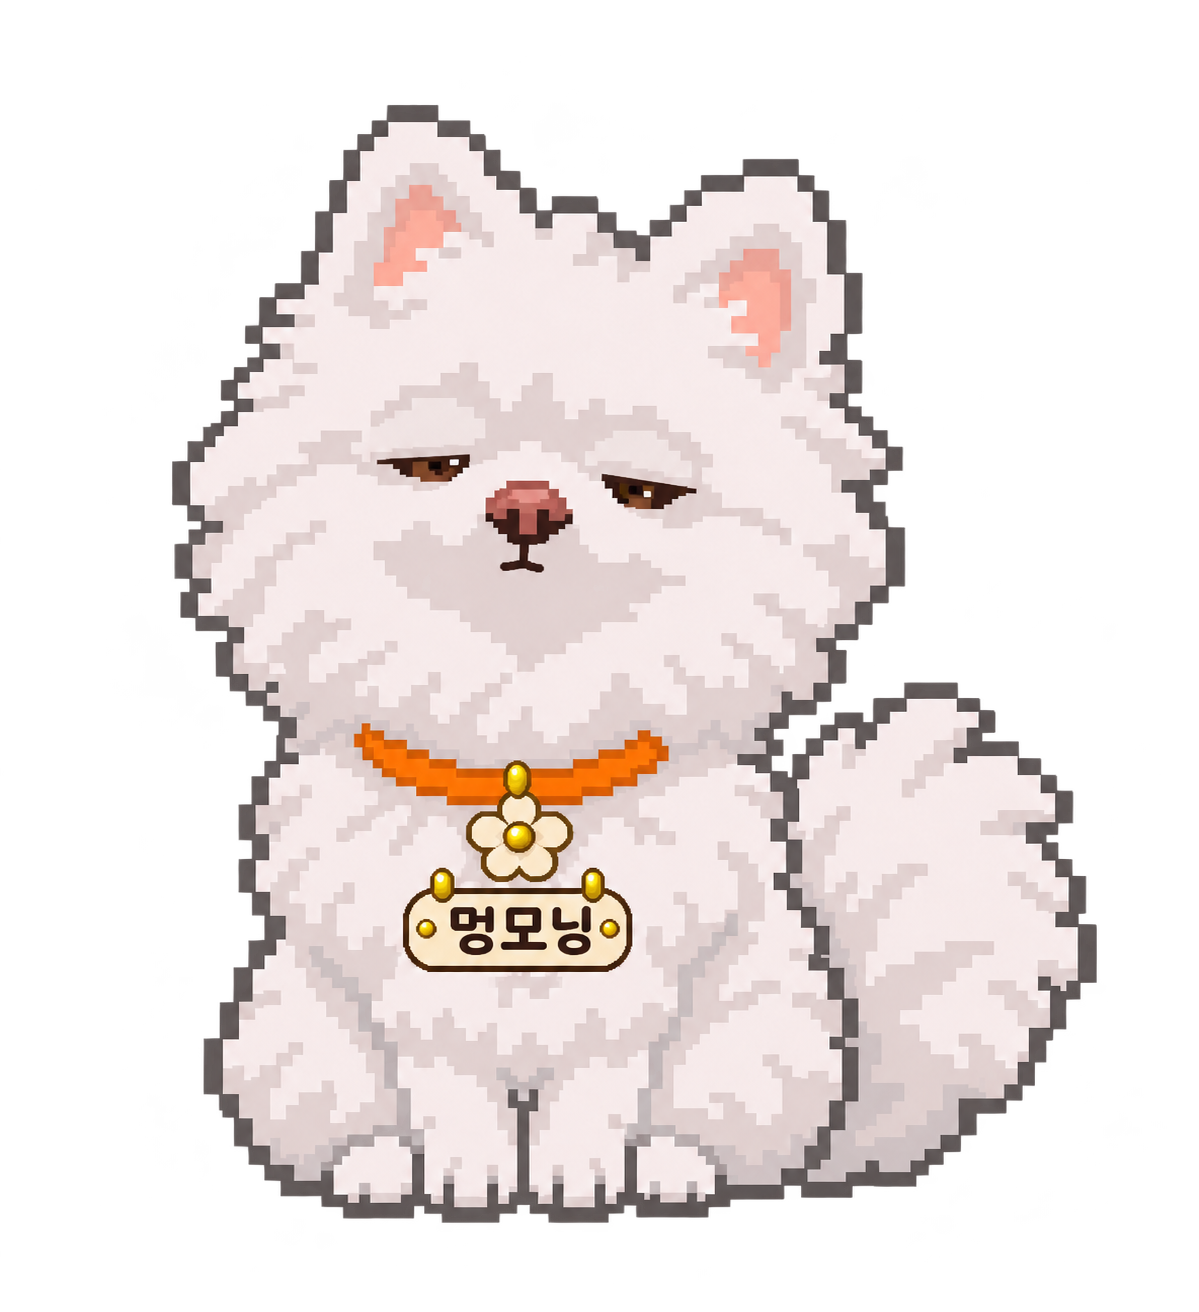
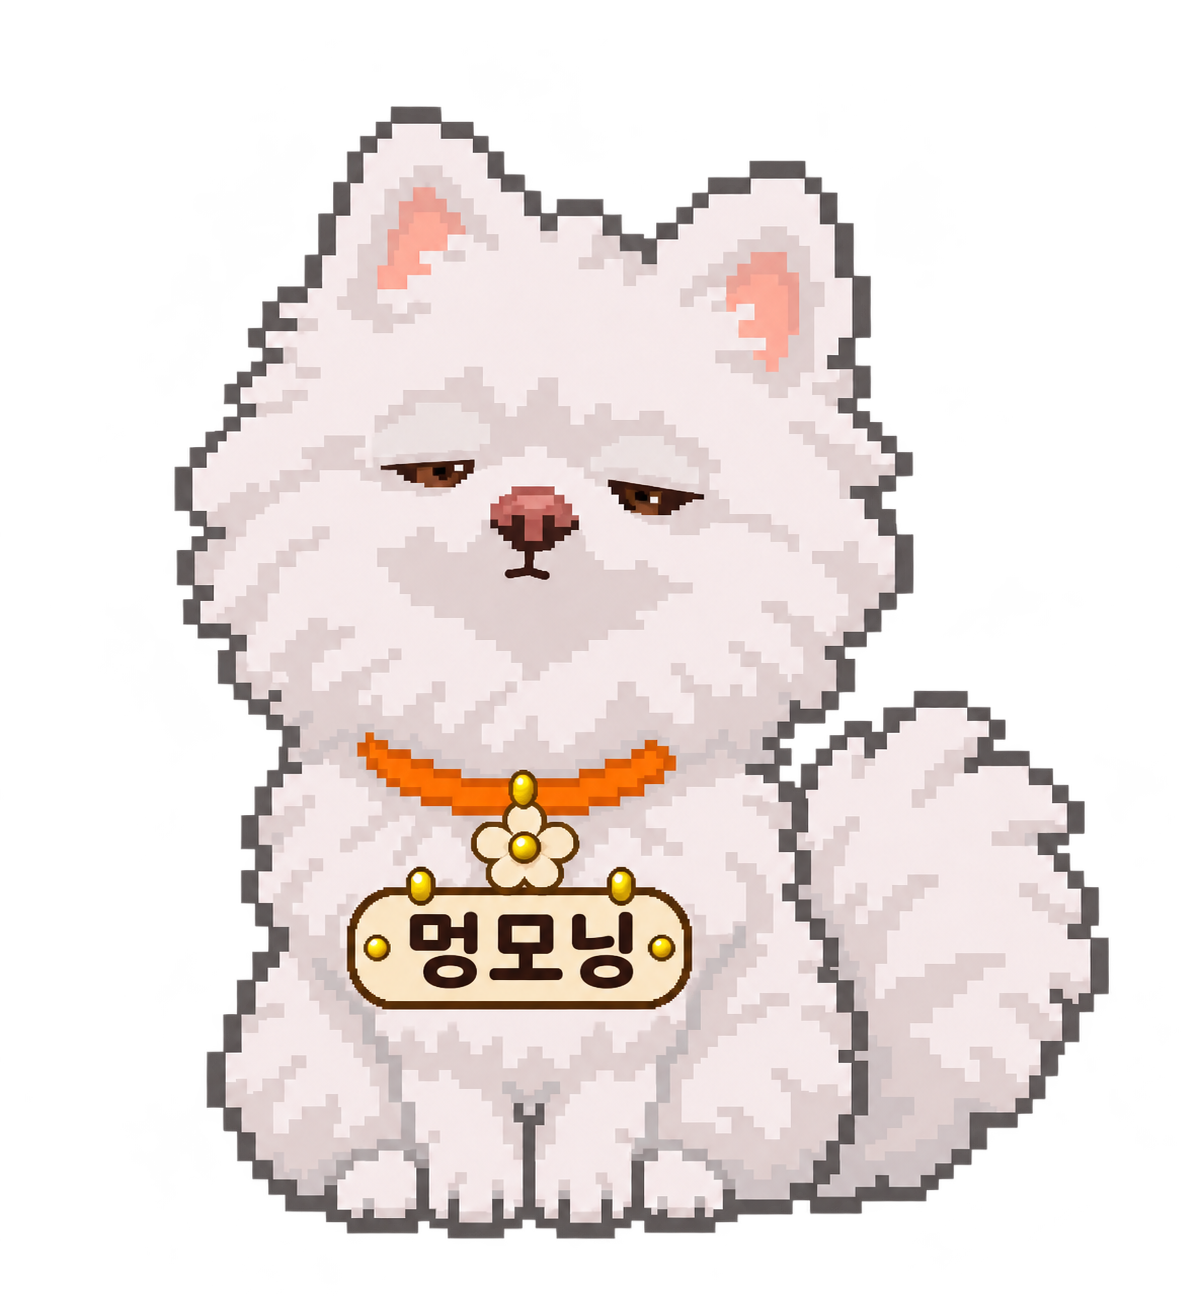
Release 2.2.1

diff --git a/updater.py b/updater.py
@@ -115,7 +115,7 @@ class UpdateService:
                     self.package=download_offer(self.base,self.offer,self.fetch)
                     self.install_requested=download or self.auto
                     self.status='적용 대기' if self.install_requested else '다운로드 완료'
-                else:self.status=self.offer['version']+' 사용 가능' if self.offer else '최신 버전'
+                else:self.status=f"새 버전 {self.offer['version']} 있음" if self.offer else '새 버전 없음'
             except Exception:
                 self.status='연결·검증 실패'
             finally:
@@ -165,7 +165,7 @@ def launch_worker(base,package,offer,wait_pid,tray_only=False):
 def update_menu_items(service,back):
     return [
         ('뒤로',back,False,True,{'icon':'back'}),None,
-        ('업데이트 상태',None,False,True,{'section':True,'value':service.status}),
+        ('업데이트 상태',None,False,True,{'section':True,'value':service.status,'value_color':(139,130,121)}),
         ('새 버전 확인',service.check,False,True,{'icon':'clock','disabled':service.busy or not service.enabled}),
         ('지금 업데이트',service.request_install,False,False,{'icon':'open','disabled':service.busy or not service.offer or not service.enabled}),
         None,

diff --git a/CHANGELOG.md b/CHANGELOG.md
@@ -2,6 +2,10 @@
 
 버전은 `주 버전.기능 버전.수정 버전` 형식입니다. 한 번의 배포에 여러 기능이 들어가도 기능 버전은 한 번 올립니다. 기능 추가와 수정이 함께 있으면 기능 버전을 올리고 수정 버전은 0으로 시작합니다. 자세한 규칙은 [버전 관리](docs/VERSIONING.md)를 따릅니다.
 
+## [2.2.1] - 2026-11-21
+
+- 멍모닝 이름표 글자 가독성과 업데이트 버전 안내 개선
+
 ## [2.2.0] - 2026-11-21
 
 - 멍모닝을 네 번째 선택 펫으로 추가하고 앉기·간식·대기·호버·완료 액션과 완료 시 빛나는 명찰 테두리를 구성
@@ -107,3 +111,4 @@
 [2.1.0]: https://github.com/jungbin128/claude-pet/compare/2.0.2...2.1.0
 [2.1.1]: https://github.com/jungbin128/claude-pet/compare/2.1.0...2.1.1
 [2.2.0]: https://github.com/jungbin128/claude-pet/compare/2.1.1...2.2.0
+[2.2.1]: https://github.com/jungbin128/claude-pet/compare/2.2.0...2.2.1
